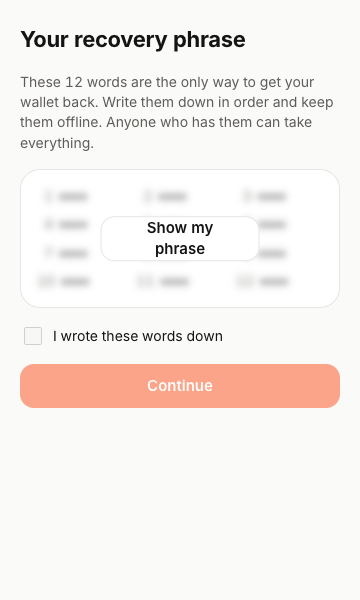
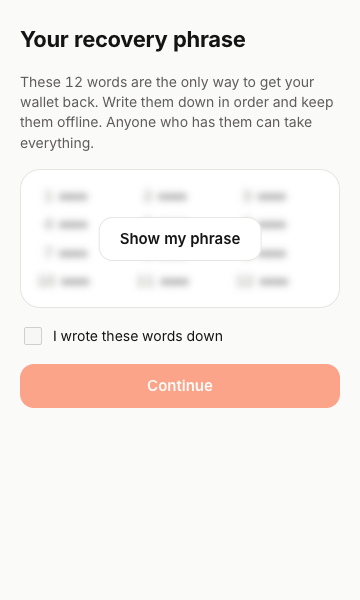
chore: Phase 2 groundwork — 14 families and new curves in core, per-family maps open, harness detects chain modules precisely, Phase 2 brief

Changed region(s): [[0.3361, 0.36, 0.6722, 0.45]]

diff --git a/apps/extension/src/background/mocks/mock-chains.ts b/apps/extension/src/background/mocks/mock-chains.ts
@@ -38,25 +38,25 @@ function assetAt(networkId: string, address?: string): AssetRef | undefined {
 
 function feeFor(network: Network): DecodedRequest["fee"] {
   // Base-units fee + sponsored flag; fiat is filled by the service's price feed.
-  const amounts: Record<Family, string> = { evm: "12000000000000", hedera: "5000000", solana: "5000", bitcoin: "800" };
-  return { asset: network.nativeAsset, amount: amounts[network.family], sponsored: network.family === "evm" };
+  const amounts: Partial<Record<Family, string>> = { evm: "12000000000000", hedera: "5000000", solana: "5000", bitcoin: "800" };
+  return { asset: network.nativeAsset, amount: amounts[network.family] ?? "0", sponsored: network.family === "evm" };
 }
 
-const ADDRESS_RE: Record<Family, RegExp> = {
+const ADDRESS_RE: Partial<Record<Family, RegExp>> = {
   evm: /^0x[0-9a-fA-F]{40}$/,
   hedera: /^0\.0\.\d{1,12}$/,
   solana: /^[1-9A-HJ-NP-Za-km-z]{32,44}$/,
   bitcoin: /^(tb1[02-9ac-hj-np-z]{8,87}|[mn2][1-9A-HJ-NP-Za-km-z]{25,34})$/,
 };
 
-const SCHEME: Record<Family, SignablePayload["scheme"]> = {
+const SCHEME: Partial<Record<Family, SignablePayload["scheme"]>> = {
   evm: "ecdsa-secp256k1",
   hedera: "ecdsa-secp256k1",
   solana: "ed25519",
   bitcoin: "ecdsa-secp256k1",
 };
 
-const PATHS: Record<Family, (i: number) => string> = {
+const PATHS: Partial<Record<Family, (i: number) => string>> = {
   evm: (i) => `m/44'/60'/0'/0/${i}`,
   hedera: (i) => `m/44'/3030'/0'/0/${i}`,
   solana: (i) => `m/44'/501'/${i}'/0'`,
@@ -78,7 +78,7 @@ export class MockChainModule {
   }
 
   derivationPath(index: number) {
-    return PATHS[this.family](index);
+    return PATHS[this.family]!(index);
   }
 
   addressFromPublicKey(): string {
@@ -86,7 +86,7 @@ export class MockChainModule {
   }
 
   isAddress(value: string) {
-    return ADDRESS_RE[this.family].test(value.trim());
+    return ADDRESS_RE[this.family]!.test(value.trim());
   }
 
   networksForAddress(value: string, candidates: Network[]) {
@@ -187,7 +187,7 @@ export class MockChainModule {
 
   async prepare(request: DappRequest, ctx: ChainContext, approvalId: string): Promise<SignablePayload[]> {
     const digest = await sha256(utf8(JSON.stringify({ m: request.method, p: request.params, n: request.networkId })));
-    return [{ accountId: ctx.account.id, scheme: SCHEME[this.family], bytes: digest, approvalId }];
+    return [{ accountId: ctx.account.id, scheme: SCHEME[this.family]!, bytes: digest, approvalId }];
   }
 
   async finalize(_request: DappRequest, signatures: Signature[]): Promise<unknown> {
@@ -220,7 +220,7 @@ export class MockChainModule {
   }
 }
 
-export function createMockChains(): Record<Family, ChainModule> {
+export function createMockChains(): Partial<Record<Family, ChainModule>> {
   return {
     evm: new MockChainModule("evm"),
     hedera: new MockChainModule("hedera"),

diff --git a/packages/core/src/index.ts b/packages/core/src/index.ts
@@ -11,15 +11,40 @@
 
 /* ------------------------------------------------------------------ networks */
 
-/** Network families shipped in Phase 1. Later phases extend this union. */
-export type Family = "evm" | "hedera" | "solana" | "bitcoin";
+/** Network families. Phase 1: evm, hedera, solana, bitcoin. Phase 2 adds the rest. */
+export type Family =
+  | "evm"
+  | "hedera"
+  | "solana"
+  | "bitcoin"
+  | "sui"
+  | "aptos"
+  | "cardano"
+  | "substrate"
+  | "starknet"
+  | "ton"
+  | "near"
+  | "stellar"
+  | "tezos"
+  | "algorand";
 
-export type Curve = "secp256k1" | "ed25519";
+export const FAMILIES: readonly Family[] = [
+  "evm", "hedera", "solana", "bitcoin",
+  "sui", "aptos", "cardano", "substrate", "starknet", "ton", "near", "stellar", "tezos", "algorand",
+];
+
+/**
+ * secp256k1 / ed25519: BIP-32 and SLIP-10. bip32-ed25519: Cardano (CIP-1852, Icarus master key).
+ * sr25519: Polkadot/Substrate (Schnorrkel, substrate derivation). stark: Starknet (EIP-2645 grinding).
+ */
+export type Curve = "secp256k1" | "ed25519" | "bip32-ed25519" | "sr25519" | "stark";
 
 export type SignatureScheme =
-  | "ecdsa-secp256k1" // EVM, Hedera ECDSA, Bitcoin legacy/segwit
+  | "ecdsa-secp256k1" // EVM, Hedera ECDSA, Bitcoin legacy/segwit, Cosmos-style
   | "schnorr-secp256k1" // Bitcoin Taproot (BIP-340)
-  | "ed25519"; // Solana, Hedera Ed25519
+  | "ed25519" // Solana, Sui, Aptos, NEAR, Stellar, TON, Tezos tz1, Algorand, Hedera Ed25519; Cardano (signed with a BIP32-Ed25519 extended key, verifies as plain Ed25519)
+  | "sr25519" // Polkadot / Substrate
+  | "stark-ecdsa"; // Starknet
 
 /** CAIP-2 chain id, e.g. "eip155:8453", "hedera:testnet", "solana:EtWTRABZaYq6iMfeYKouRu166VU2xqa1", "bip122:000000000019d6689c085ae165831e93". */
 export type NetworkId = string;

diff --git a/apps/extension/src/background/real.ts b/apps/extension/src/background/real.ts
@@ -145,7 +145,7 @@ export class WalletConnectAdapter implements WalletConnectBridge {
 
 /* ------------------------------------------------------------------ route */
 
-const PLAIN_ETA: Record<Family, number> = { evm: 12, hedera: 4, solana: 2, bitcoin: 600 };
+const PLAIN_ETA: Partial<Record<Family, number>> = { evm: 12, hedera: 4, solana: 2, bitcoin: 600 };
 
 /** CLPRouter funding through @clip-wallet/route. Phase 1 routes pay on Hedera from EVM networks. */
 export class RoutePlannerAdapter implements RoutePlanner {
@@ -161,7 +161,7 @@ export class RoutePlannerAdapter implements RoutePlanner {
   async plan({ decoded, balances, networks }: Parameters<RoutePlanner["plan"]>[0]): Promise<ApprovalPlan> {
     const net = networks.find((n) => n.id === decoded.networkId);
     const steps: PlanStep[] = [];
-    let readyInSeconds = PLAIN_ETA[net?.family ?? "evm"];
+    let readyInSeconds = PLAIN_ETA[net?.family ?? "evm"] ?? 30;
     let problem: string | undefined;
     let feeFiat = decoded.fee?.fiatValue;
     const shortfalls = findShortfall(decoded, balances);

diff --git a/apps/extension/src/background/service.ts b/apps/extension/src/background/service.ts
@@ -5,7 +5,7 @@
  * revealPhrase for the onboarding screen.
  */
 import type { Account, AssetRef, ChainContext, DappRequest, DecodedRequest, Family, Network, Nft, TokenBalance, Warning } from "@clip-wallet/core";
-import { ClipError } from "@clip-wallet/core";
+import { ClipError, type ChainModule } from "@clip-wallet/core";
 import type {
   ActivityEntry,
   ActivityLeg,
@@ -292,8 +292,10 @@ export class WalletService implements DappHost {
     return a;
   }
 
-  private module(family: Family): Dependencies["chains"][Family] {
-    return this.deps.chains[family];
+  private module(family: Family): ChainModule {
+    const m = this.deps.chains[family];
+    if (!m) throw new ClipError("This kind of account isn't available in this version yet.", "family-unavailable");
+    return m;
   }
 
   private network(id: string): Network {

diff --git a/packages/1mask/test/helpers.ts b/packages/1mask/test/helpers.ts
@@ -1,3 +1,4 @@
+import { FAMILIES } from "../src/shared/protocol.js";
 import type { DappRequest, Family, Network } from "@clip-wallet/core";
 import { Window as HappyWindow } from "happy-dom";
 import { createOneMaskRouter, createMemoryPermissionStore, type OneMaskRouterOptions } from "../src/background/index.js";
@@ -21,6 +22,7 @@ export const BTC_ADDR = "tb1qexampleaddress0000000000000000000000";
 export const BTC_PUB = "02" + "22".repeat(32);
 
 export const ACCOUNTS: Record<Family, { address: string; publicKey?: string; purpose?: string }[]> = {
+  ...(Object.fromEntries(FAMILIES.map((f) => [f, []])) as unknown as Record<Family, never[]>),
   evm: [{ address: EVM_ADDR }],
   solana: [{ address: SOL_ADDR, publicKey: SOL_PUB }],
   bitcoin: [{ address: BTC_ADDR, publicKey: BTC_PUB, purpose: "payment" }],

diff --git a/packages/vault/src/derive.ts b/packages/vault/src/derive.ts
@@ -14,6 +14,16 @@ export const CURVE_OF: Record<Family, Curve> = {
   hedera: "secp256k1",
   solana: "ed25519",
   bitcoin: "secp256k1",
+  sui: "ed25519",
+  aptos: "ed25519",
+  cardano: "bip32-ed25519",
+  substrate: "sr25519",
+  starknet: "stark",
+  ton: "ed25519",
+  near: "ed25519",
+  stellar: "ed25519",
+  tezos: "ed25519",
+  algorand: "ed25519",
 };
 
 export interface PathOptions {
@@ -37,6 +47,8 @@ export function derivationPath(family: Family, index: number, opts: PathOptions 
       const purpose = opts.bitcoinAddressType === "p2tr" ? 86 : 84; // BIP-86 taproot / BIP-84 native segwit
       return `m/${purpose}'/${coin}'/0'/0/${index}`;
     }
+    default:
+      throw new Error(`key derivation for ${family} is not supported yet`);
   }
 }
 

diff --git a/packages/1mask/src/background/router.ts b/packages/1mask/src/background/router.ts
@@ -1,3 +1,4 @@
+import { FAMILIES as ALL_FAMILIES } from "../shared/protocol.js";
 import type { DappRequest, Family, Network, NetworkId } from "@clip-wallet/core";
 import { randomId } from "../shared/bytes.js";
 import { ProviderRpcError, RpcErrorCode, fromRpcErrorShape, rpcError, toRpcErrorShape } from "../shared/errors.js";
@@ -92,7 +93,7 @@ export interface OneMaskRouter {
   connectedOrigins(): string[];
 }
 
-const FAMILIES: Family[] = ["evm", "hedera", "solana", "bitcoin"];
+const FAMILIES: readonly Family[] = ALL_FAMILIES;
 
 function exposeAccount(a: AccountLike): ExposedAccount & { purpose?: string; addressType?: string } {
   const out: ExposedAccount & { purpose?: string; addressType?: string } = { address: a.address };

diff --git a/packages/1mask/test/walletconnect.test.ts b/packages/1mask/test/walletconnect.test.ts
@@ -12,7 +12,7 @@ import * as P from "./fixtures/proposals.js";
 import { EVM_ADDR, NETWORKS, SOL_ADDR, BTC_ADDR, tick } from "./helpers.js";
 
 const addressesFor = (chain: string, family: Family): string[] =>
-  ({ evm: [EVM_ADDR], solana: [SOL_ADDR], bitcoin: [BTC_ADDR], hedera: chain === "hedera:testnet" ? ["0.0.1234"] : [] })[family];
+  (({ evm: [EVM_ADDR], solana: [SOL_ADDR], bitcoin: [BTC_ADDR], hedera: chain === "hedera:testnet" ? ["0.0.1234"] : [] }) as Partial<Record<Family, string[]>>)[family] ?? [];
 const input = { networks: NETWORKS, addressesFor };
 
 describe("CAIP-25 namespace mapping (fixtures, no network)", () => {

diff --git a/packages/1mask/src/shared/protocol.ts b/packages/1mask/src/shared/protocol.ts
@@ -1,3 +1,4 @@
+import type { Family } from "@clip-wallet/core";
 import { z } from "zod";
 
 /**
@@ -11,7 +12,10 @@ import { z } from "zod";
 
 export const DEFAULT_CHANNEL = "clip-wallet-1mask";
 
-export const FAMILIES = ["evm", "hedera", "solana", "bitcoin"] as const;
+export const FAMILIES = [
+  "evm", "hedera", "solana", "bitcoin",
+  "sui", "aptos", "cardano", "substrate", "starknet", "ton", "near", "stellar", "tezos", "algorand",
+] as const satisfies readonly Family[];
 export const familySchema = z.enum(FAMILIES);
 
 export const EVENTS = ["accountsChanged", "chainChanged", "disconnect", "connect"] as const;

diff --git a/packages/vault/src/vault.ts b/packages/vault/src/vault.ts
@@ -81,6 +81,8 @@ const SCHEME_CURVE: Record<SignatureScheme, Curve> = {
   "ecdsa-secp256k1": "secp256k1",
   "schnorr-secp256k1": "secp256k1",
   ed25519: "ed25519",
+  sr25519: "sr25519",
+  "stark-ecdsa": "stark",
 };
 
 export class ClipVault implements Vault {
@@ -241,6 +243,8 @@ export class ClipVault implements Vault {
         }
         case "ed25519":
           return { scheme: payload.scheme, bytes: signEd25519(payload.bytes, key.privateKey), publicKey: toHex(key.publicKey) };
+        default:
+          throw VaultErrors.schemeMismatch();
       }
     } finally {
       wipe(key.privateKey);

diff --git a/apps/extension/src/background/wiring.ts b/apps/extension/src/background/wiring.ts
@@ -139,7 +139,8 @@ export interface Dependencies {
   /** True in fixture mode (mock chains/1Mask/route; dev simulator enabled). */
   mocks: boolean;
   vault: WalletVault;
-  chains: Record<Family, ChainModule>;
+  /** Only the families this build ships; Phase 2 families register as their modules land. */
+  chains: Partial<Record<Family, ChainModule>>;
   networks: Network[];
   /** Assets each network can carry, even at zero balance (send/receive candidates). */
   assets: AssetRef[];

diff --git a/packages/vault/src/address.ts b/packages/vault/src/address.ts
@@ -73,6 +73,9 @@ export const defaultAddressOf: AddressOf = (family, publicKey, ctx) => {
       return ctx.bitcoinAddressType === "p2tr"
         ? p2trAddress(publicKey, ctx.bitcoinNetwork)
         : p2wpkhAddress(publicKey, ctx.bitcoinNetwork);
+    default:
+      // Phase 2 families: their address encodings are added with their derivation.
+      throw new Error(`addresses for ${family} are not supported yet`);
   }
 };
 
